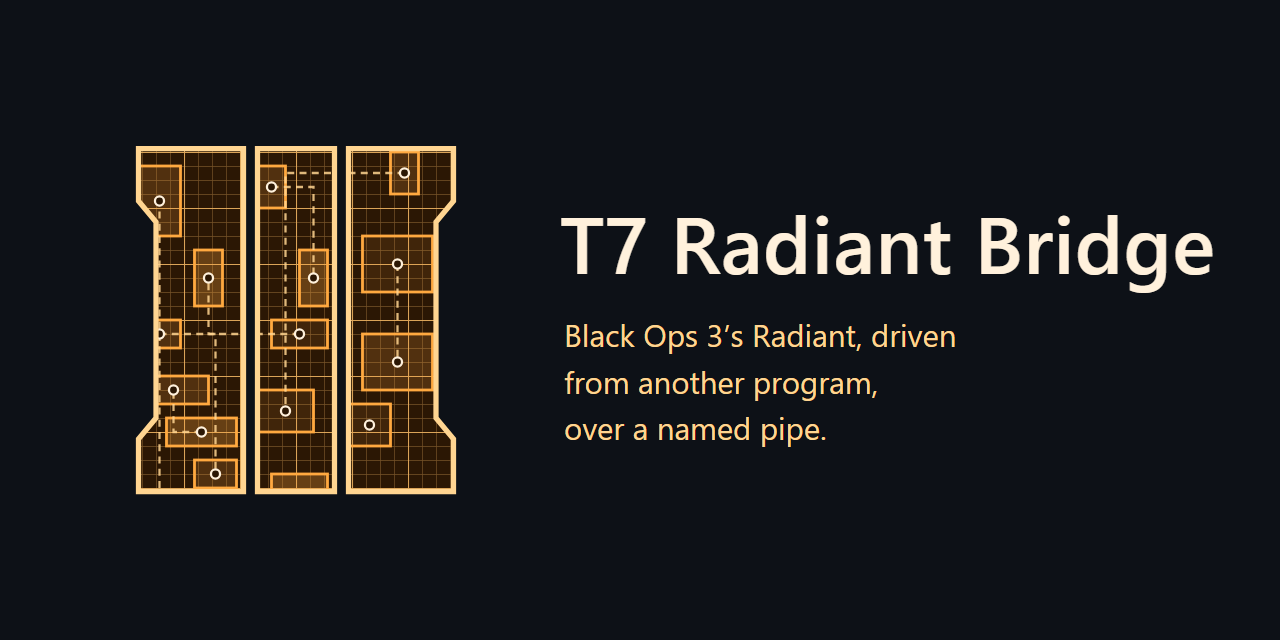
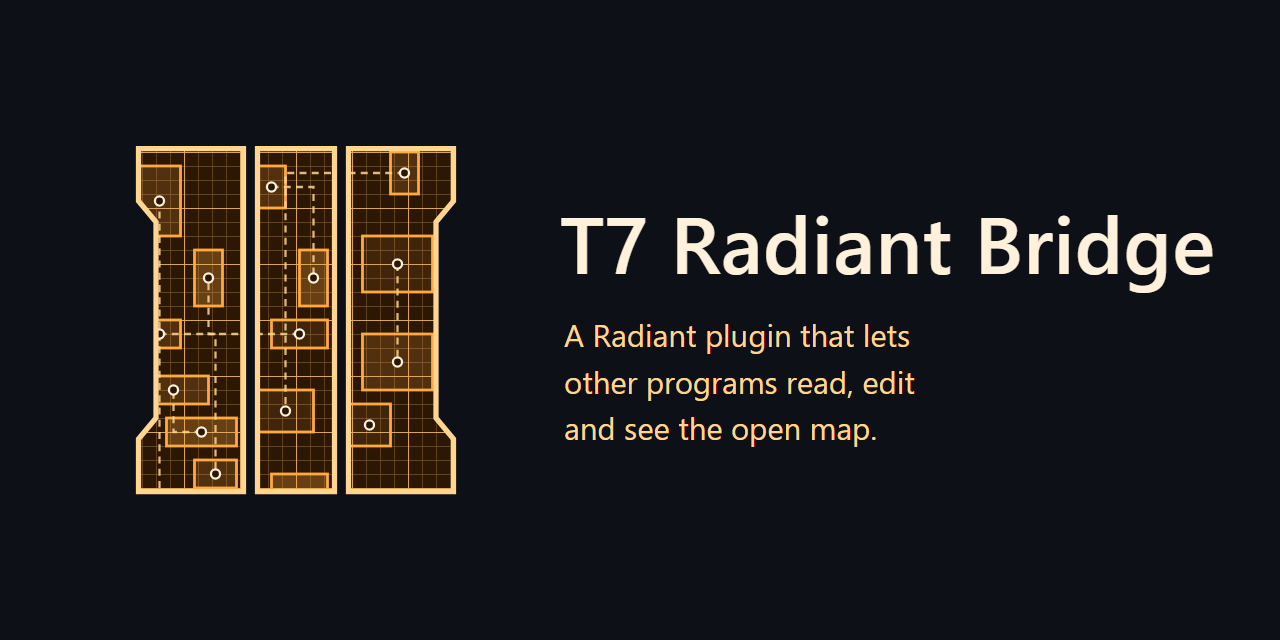
docs: the plugin first: its tagline and link card say what it is, and a note says it is not a plugin host
The tagline and the social preview now open on what the repository holds: "A Radiant plugin that lets other programs read, edit and see the open map." A note under the introduction draws the line with MTPlugins: the bridge is one plugin, not a host; its standalone host only carries the bridge and steps aside when MTPlugins runs, the bridge being then one of its plugins; for plugins in Radiant, MTPlugins.

Claude-Session: https://claude.ai/code/session_01UwhJpHftVKqDimZ89UEqDK

Changed region(s): [[0.4375, 0.5, 0.75, 0.625], [0.4375, 0.6562, 0.6875, 0.6875]]

diff --git a/README.md b/README.md
@@ -1,7 +1,7 @@
 <div align="center">
     <img src="docs/media/logo.svg" alt="T7 Radiant Bridge logo" width="160" height="160"/>
     <h1>T7 Radiant Bridge</h1>
-    <h3><em>Black Ops 3's Radiant, driven from another program, over a named pipe.</em></h3>
+    <h3><em>A Radiant plugin that lets other programs read, edit and see the open map.</em></h3>
 </div>
 
 <p align="center">
@@ -22,6 +22,9 @@
 </p>
 
 A plugin for Radiant, Black Ops III's map editor, that lets another program drive it the way a mapper does: read the open map, edit it with undo, run Radiant's own commands, move the camera and capture the views. It serves a named-pipe protocol, [PROTOCOL.md](PROTOCOL.md), so any program on the same machine can be its client: an AI agent's tools, a script, a test. [T7 Companion](https://github.com/McReaper/t7_companion) is one, and ships the bridge to its users.
+
+> [!NOTE]
+> T7 Radiant Bridge is one plugin, not a plugin host: it loads no other plugin and has no UI. Its standalone host only carries the bridge, for a client to load it without installing anything, and steps aside when [MTPlugins](https://github.com/Aidan601/MTPlugins) runs; the bridge is then one of its plugins. For plugins in Radiant, use MTPlugins.
 
 ## ⚙ How it works
 
